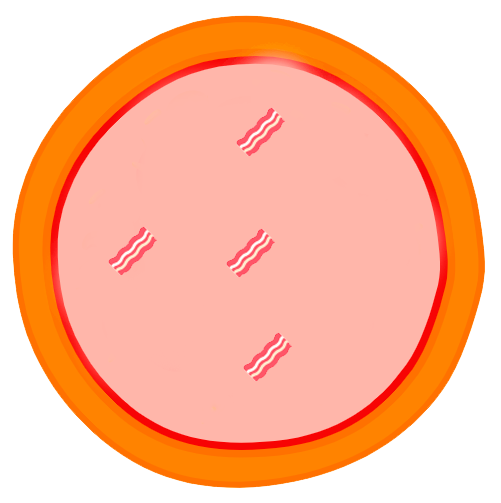
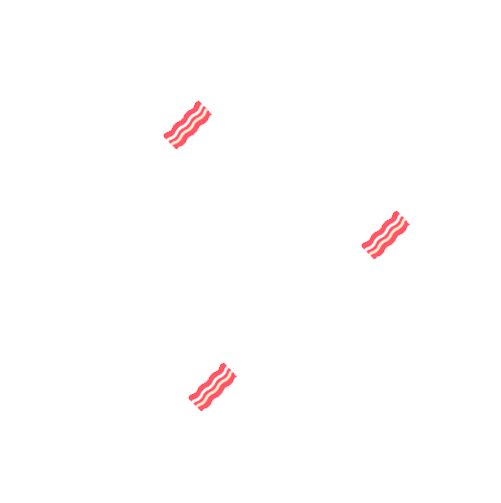
добавил классы к картинкам bg ингредиентов, сделал чтобы появлялись при счетчике больше 1 и исчезали при меньше 1

diff --git a/src/components/home-page/TypeOfPizza.vue b/src/components/home-page/TypeOfPizza.vue
@@ -7,13 +7,73 @@
     <input type="text" v-model.trim="namePizza" placeholder="Название вашей пиццы" class="type-of-pizza__name-pizza">
 
 <div>
-  <div style="position: relative; height: 500px">
+  <div class="type-of-pizza__wrapper-images">
 
-    <img class="type-of-pizza__image-pizza main-style-image" src="@/assets/image-pizza-null.png" alt="" style="position: absolute">
-    <img src="@/assets/bg-ingredients/all-tomato.png" alt="" style="position: absolute; z-index: 1; display: none" class="type-of-pizza__image-pizza main-style-image">
-<!--    <img src="@/assets/bg-ingredients/all-chile.png" alt="" style="position: absolute; z-index: 2;" class="type-of-pizza__image-pizza main-style-image">-->
-<!--    <img src="@/assets/bg-ingredients/all-cheddar.png" alt="" style="position: absolute; z-index: 3;" class="type-of-pizza__image-pizza main-style-image">-->
-<!--    <img src="@/assets/bg-ingredients/all-olea.png" alt="" style="position: absolute; z-index: 3;" class="type-of-pizza__image-pizza main-style-image">-->
+    <img  class="type-of-pizza__image-pizza main-style-image type-of-pizza__image-pizza--pizza-null" src="@/assets/image-pizza-null.png" alt="">
+
+    <img src="@/assets/bg-ingredients/all-tomato.png"
+         alt=""
+         class="ingredient-image type-of-pizza__image-pizza--mushrooms  type-of-pizza__image-pizza main-style-image">
+
+    <img src="@/assets/bg-ingredients/all-cheddar.png"
+         alt=""
+         class="ingredient-image type-of-pizza__image-pizza--cheddar  type-of-pizza__image-pizza main-style-image">
+
+    <img src="@/assets/bg-ingredients/all-salami.png"
+         alt=""
+         class="ingredient-image type-of-pizza__image-pizza--salami  type-of-pizza__image-pizza main-style-image">
+
+    <img src="@/assets/bg-ingredients/all-ham.png"
+         alt=""
+         class="ingredient-image type-of-pizza__image-pizza--ham  type-of-pizza__image-pizza main-style-image">
+
+    <img src="@/assets/bg-ingredients/all-pineapple.png"
+         alt=""
+         class="ingredient-image type-of-pizza__image-pizza--pineapple  type-of-pizza__image-pizza main-style-image">
+
+    <img src="@/assets/bg-ingredients/all-bacon.png"
+         alt=""
+         class="ingredient-image type-of-pizza__image-pizza--bacon type-of-pizza__image-pizza main-style-image">
+
+    <img src="@/assets/bg-ingredients/all-allium.png"
+         alt=""
+         class="ingredient-image type-of-pizza__image-pizza--allium type-of-pizza__image-pizza main-style-image">
+
+    <img src="@/assets/bg-ingredients/all-chile.png"
+         alt=""
+         class="ingredient-image type-of-pizza__image-pizza--chile type-of-pizza__image-pizza main-style-image">
+
+    <img src="@/assets/bg-ingredients/all-jalapeno.png"
+         alt=""
+         class="ingredient-image type-of-pizza__image-pizza--jalapeno type-of-pizza__image-pizza main-style-image">
+
+    <img src="@/assets/bg-ingredients/all-olea.png"
+         alt=""
+         class="ingredient-image type-of-pizza__image-pizza--olea type-of-pizza__image-pizza main-style-image">
+
+    <img src="@/assets/bg-ingredients/all-tomato.png"
+         alt=""
+         class="ingredient-image type-of-pizza__image-pizza--tomato type-of-pizza__image-pizza main-style-image">
+
+    <img src="@/assets/bg-ingredients/all-salmon.png"
+         alt=""
+         class="ingredient-image type-of-pizza__image-pizza--salmon type-of-pizza__image-pizza main-style-image">
+
+    <img src="@/assets/bg-ingredients/all-morazzarella.png"
+         alt=""
+         class="ingredient-image type-of-pizza__image-pizza--morazzarella type-of-pizza__image-pizza main-style-image">
+
+    <img src="@/assets/bg-ingredients/all-parmesa.png"
+         alt=""
+         class="ingredient-image type-of-pizza__image-pizza--parmesa type-of-pizza__image-pizza main-style-image">
+
+    <img src="@/assets/bg-ingredients/all-blue-cheese.png"
+         alt=""
+         class="ingredient-image type-of-pizza__image-pizza--blue-cheese type-of-pizza__image-pizza main-style-image">
+
+
+
+
   </div>
 </div>
 
@@ -48,9 +108,86 @@ export default {
 <style lang="scss">
 @import '@/scss/app-core/_vars.scss';
 
+//для картинок ингредиентов , показывает если счетчик больше 1
+.ingredient-image {
+  display: none;
+}
+.show-ingredient-image {
+  display:block;
+}
+//end для картинок ингредиентов
+
 .type-of-pizza {
   margin-top: 19px;
-
+  //картинки для наложения на пиццу
+  &__wrapper-images {
+    position: relative;
+    height: 500px
+  }
+  &__image-pizza--pizza-null {
+    position: absolute;
+  }
+  &__image-pizza--mushrooms {
+    position: absolute;
+    z-index: 1;
+  }
+  &__image-pizza--cheddar {
+    position: absolute;
+    z-index: 2;
+  }
+  &__image-pizza--salami {
+    position: absolute;
+    z-index: 3;
+  }
+  &__image-pizza--ham {
+    position: absolute;
+    z-index: 4;
+  }
+  &__image-pizza--pineapple {
+    position: absolute;
+    z-index: 5;
+  }
+  &__image-pizza--bacon {
+    position: absolute;
+    z-index: 6;
+  }
+  &__image-pizza--allium {
+    position: absolute;
+    z-index: 7;
+  }
+  &__image-pizza--chile {
+    position: absolute;
+    z-index: 8;
+  }
+  &__image-pizza--jalapeno {
+    position: absolute;
+    z-index: 9;
+  }
+  &__image-pizza--olea {
+    position: absolute;
+    z-index: 10;
+  }
+  &__image-pizza--tomato {
+    position: absolute;
+    z-index: 11;
+  }
+  &__image-pizza--salmon {
+    position: absolute;
+    z-index: 12;
+  }
+  &__image-pizza--morazzarella {
+    position: absolute;
+    z-index: 13;
+  }
+  &__image-pizza--parmesa {
+    position: absolute;
+    z-index: 14;
+  }
+  &__image-pizza--blue-cheese {
+    position: absolute;
+    z-index: 15;
+  }
+  //end картинки для наложения на пиццу
   &__name-pizza {
     width: 100%;
     padding: 10px 20px;

diff --git a/src/components/home-page/ChooseIngredients.vue b/src/components/home-page/ChooseIngredients.vue
@@ -193,6 +193,12 @@ export default {
         //если счетчик ингредиента больше 1, делаем кнопку другого цвета
         if(this.arrayIngredientsForCounter[index].counter < 1) {
           this.$refs.counterColor[index].classList.remove("active-orange-btn-plus");
+
+          //пробовал через refs ,но писал ref в другом компоненте и пытался обратиться тут, выдает undef
+          //решил сделать через querySelectorAll
+          //получаю массив с картинками ингредиентов и добавляю класс если счетчик меньше  1
+          const arrayImagesForIngredients = document.querySelectorAll('.ingredient-image');
+          arrayImagesForIngredients[index].classList.remove("show-ingredient-image");
         }
       }
 
@@ -205,9 +211,15 @@ export default {
 
         this.arrayIngredientsForCounter[index].counter++;
 
-        //если счетчик ингредиента больше 1, делаем кнопку другого цвета
+        //если счетчик ингредиента больше 1, делаем кнопку другого цвета .classList.add("show-ingredient-image");
         if(this.arrayIngredientsForCounter[index].counter >= 1) {
           this.$refs.counterColor[index].classList.add("active-orange-btn-plus");
+
+          //пробовал через refs ,но писал ref в другом компоненте и пытался обратиться тут, выдает undef
+          //решил сделать через querySelectorAll
+          //получаю массив с картинками ингредиентов и добавляю класс если счетчик равен или больше 1
+          const arrayImagesForIngredients = document.querySelectorAll('.ingredient-image');
+          arrayImagesForIngredients[index].classList.add("show-ingredient-image")
         }
 
 
